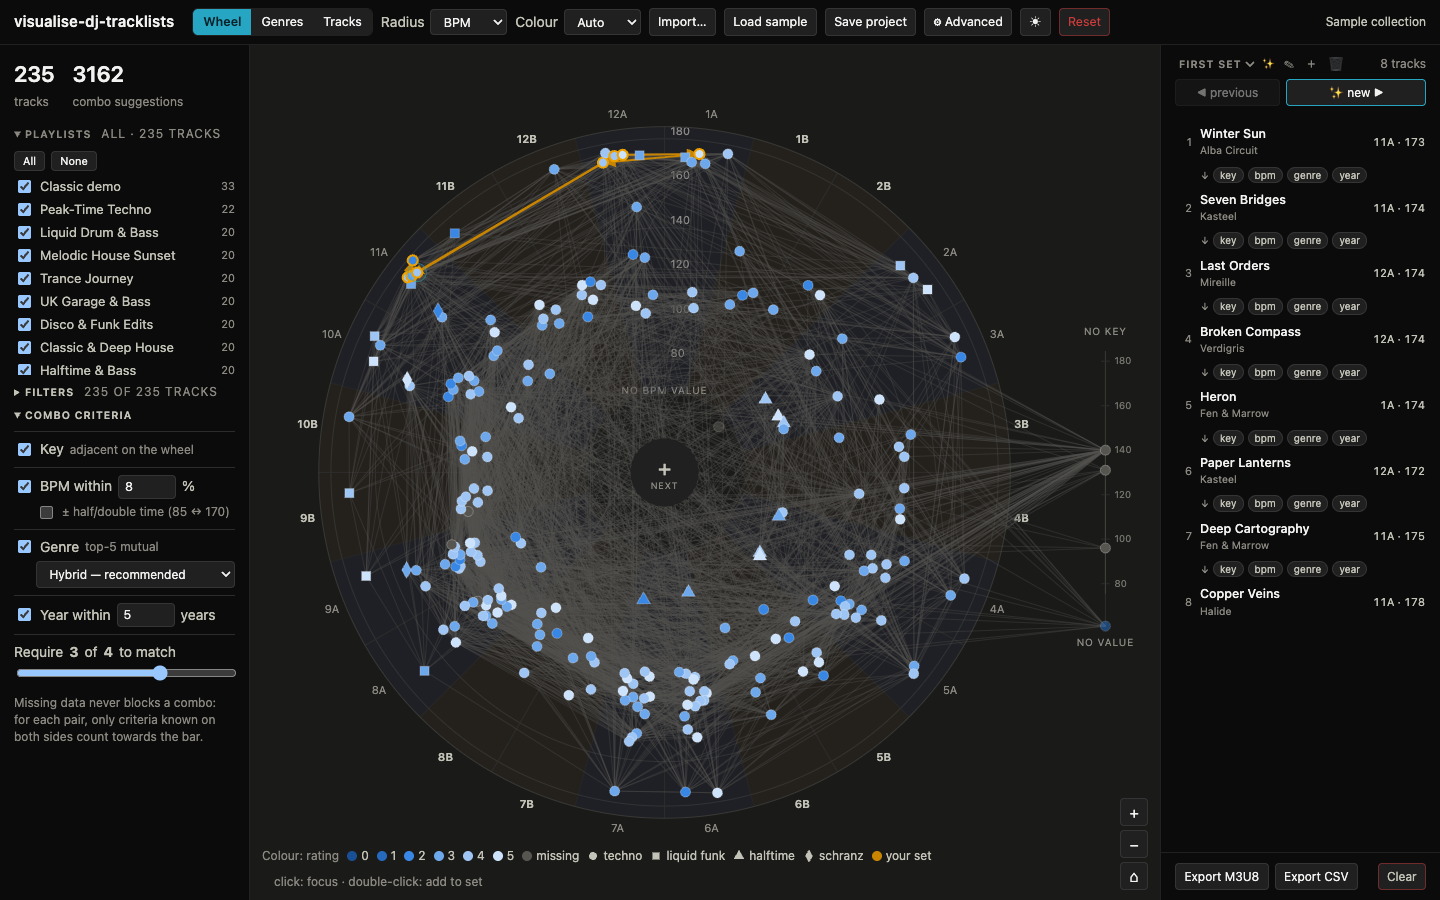
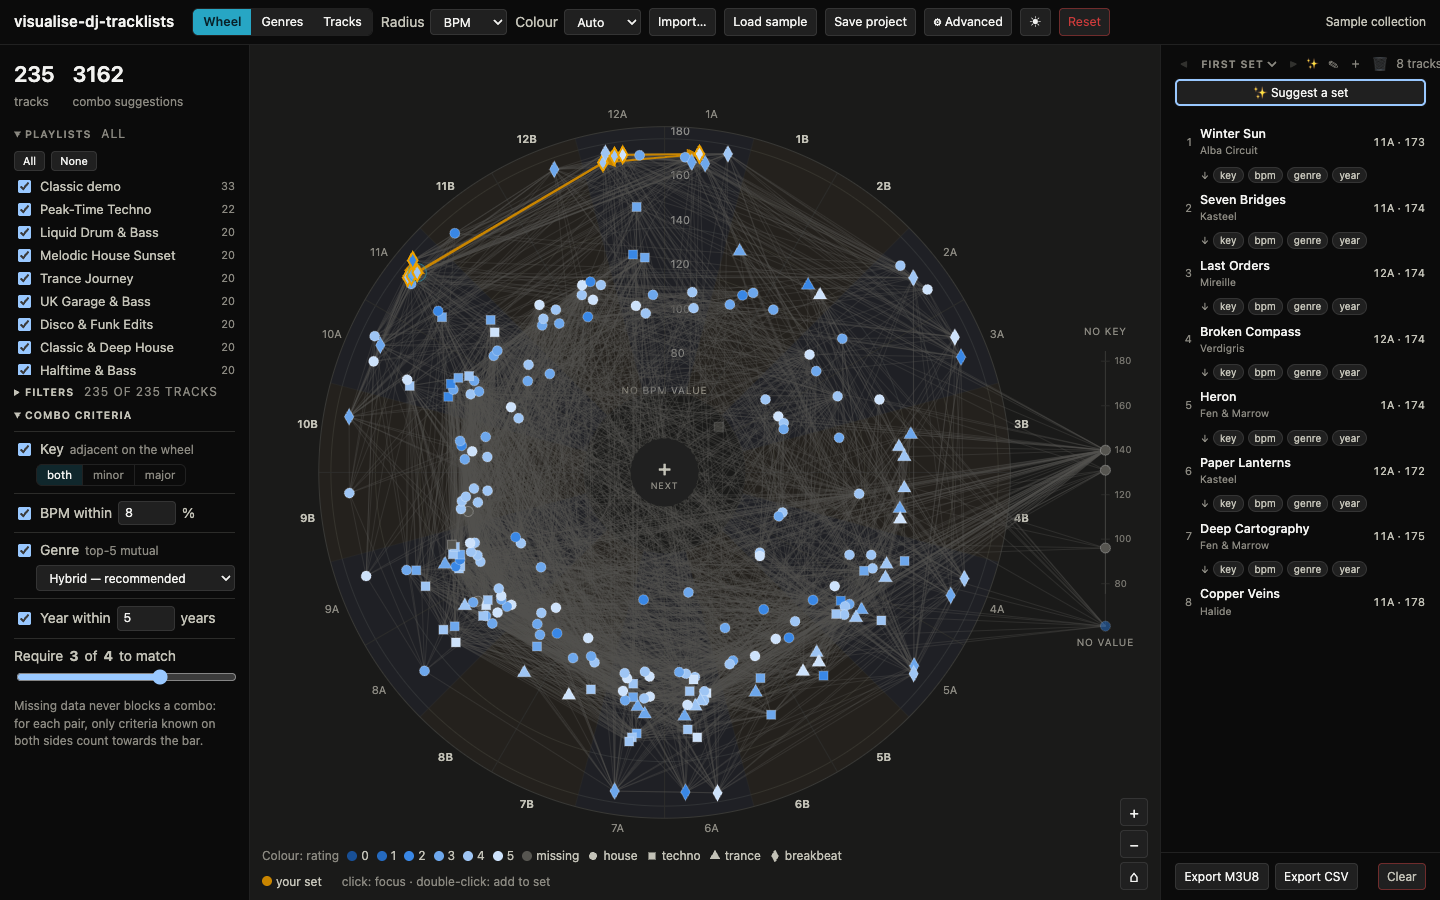
v8 WS13: design-v8.md, README for the v8 features, refreshed screenshots

diff --git a/docs/designs/design-v8.md b/docs/designs/design-v8.md
@@ -1,0 +1,175 @@
+# Design v8 — Eighteen issues after using v7
+
+Eighteen issues from real sessions with v7 (docs/ISSUES.md), headlined by a retry
+state machine on the hub, icon modes decoupled from the combo criterion, BPM
+matching at metric ratios, a seven-part Tracks-view upgrade, and the unification
+of named sets with the suggestion browser. This document records the design
+decided with Michiel before implementation (2026-07-16).
+
+## The issues and their resolutions
+
+| #   | Issue                                          | Resolution                                                                                                                                                          |
+| --- | ---------------------------------------------- | -------------------------------------------------------------------------------------------------------------------------------------------------------------------- |
+| 1   | Track count in the Playlists title superfluous | The Playlists summary reads just "2/9" again (reverting part of v7 issue 8); the Filters summary keeps the track totals                                                |
+| 2   | Retry hidden when Force appears                | The ring shows whenever the last hub pick can still be swapped — including in force state, where retrying the previous step matters most (§A)                          |
+| 3   | Retry should degrade, not disappear            | Retry → **force retry** (animated morph, + a ⟲ restore-original button) → **reset-only** when everything has been tried. NO auto-reset — the user decides (§A)         |
+| 4   | Criterion method reshuffles the icons          | Node shapes never follow the combo criterion any more: the clusters mode is pinned to the hybrid space, and the new default doesn't cluster at all (§B)                |
+| 5   | Playlist-based icons; study the clustering     | An `iconMode` setting: **genre families** (curated tree, the new default), **playlists** (first selected wins), **clusters** (hybrid-pinned legacy) (§B)                |
+| 6   | Half/double to advanced; 2/3 time; unit time   | Advanced → **Key & BPM** holds ± unit time (default ON), ± half/double, ± 2/3 time (3:2, triplet ↔ four-on-the-floor); the combo panel warns when unit time is off (§C) |
+| 7   | Hybrid should top the method list              | `METHOD_PICK_ORDER` (hybrid first) drives both method dropdowns; `GENRE_METHODS` keeps the simple→rich order for the map's chips and colours                            |
+| 8   | BPM tolerance down to 0%                       | The % input accepts 0 = exact-BPM match (the core already treated 0 correctly; a test pins it)                                                                          |
+| 9   | Focus card overlaps the legend                 | The selected-track card docks bottom-RIGHT (beside the zoom controls); while it shows, the legend's right bound retreats so the two can never collide                   |
+| 10  | Minor/major-only option                        | A both/minor/major segmented control in the key criterion block — semantically a FILTER (`filters.keyRing`); the excluded ring's sector tint fades out (§D)             |
+| 11  | Draggable genre nodes                          | Pointer-based dragging pins the node under the cursor and reheats the simulation; release lets it re-settle. Pure play, nothing persisted                              |
+| 12  | 'exact' does nothing on the genre map          | Correct, provably: one node per NORMALIZED label means identical labels are the same node. The chip is gone; criterion=exact shows a one-line note                      |
+| 13  | Method chips wrap to two lines                 | Five chips (after dropping 'exact') on one `nowrap` line — the old `max-width: 70%` + `flex-wrap: wrap` was the culprit                                                |
+| 14  | Edge tooltips unusable in dense maps           | The **pair inspector**: click genre A, click genre B → a docked card locks with every method's score and a ● for methods currently drawing the pair (§E)                |
+| 15  | Seven Tracks-view improvements                 | See §F — sort persistence, header-drag column order, optional Album/Date added/Length columns, star ratings, pin-lit ★, and the ＋→position cell                        |
+| 16  | Force should prefer ±2/±7 semitones            | Forced ranking adds `KEY_AFFINITY_BONUS` (0.3) when the keys match under relaxed +2/+7 opts (vinyl-aware) — below the 0.5 genre weight, so it re-ranks near-ties (§A)   |
+| 17  | Advanced menu: closed first, then remembered   | All sections fold on first open; `settings.advancedOpen` remembers what the user keeps open, across sessions (§G — with a Svelte 5 war story)                           |
+| 18  | Sets and the suggestion browser are one thing  | `suggestionHistory` is gone: ◀/▶ + the dropdown browse ≤ 8 named sets; ✨ regenerates an untouched set IN PLACE, else starts a new one (§H)                              |
+
+Decisions taken with the user: no auto-reset when the retry cycle exhausts
+(reset-only waits for ⟲); retry scope stays hub-placed picks; icon modes are all
+three (families default); playlist-icon conflicts resolve to the first selected
+playlist in panel order, size then panel order caps the symbol budget; ✨
+regenerates in place; append affordance in the Tracks view is the ＋ cell that
+becomes the position number (double-click removed there); Album + Date added are
+the new model fields; column reorder is header drag; the unit-time-off warning
+ships.
+
+## §A The retry state machine and the forced key preference
+
+`retryState(neighbours, tracklist, lastPick, triedIds, visibleIds)` in
+suggest.ts replaces `retryAlternativeExists` with four states:
+
+- **retry** — the anchor still has an unused, untried criteria-matching
+  neighbour (for the opener slot: any unused, untried visible track).
+- **force-retry** — matching options exhausted, but an untried visible track
+  remains: the ring adopts the force palette (animated dash morph) and grows a
+  ⟲ button that restores the slot's ORIGINAL pick and reopens the cycle.
+- **reset-only** — everything has been tried: the ring dims to a trace, only ⟲
+  acts, and nothing happens automatically.
+- **none** — no valid pick to swap, or a lone original with no alternatives.
+
+The view tracks `originalPickId` (set on each fresh hub pick, surviving
+retries, dying with the invalidation effect) and `triedIds` (the cycle's
+exclusions; ⟲ clears them). The ring is now visible in the hub's force state —
+issue 2's complaint — because the state machine looks at the LAST pick, not the
+next one.
+
+Forced picks (issue 16): the forced ranking adds 0.3 when
+`keysNearlyMatch(anchor, candidate)` — the key criterion evaluated with plusTwo
+and plusSeven forced on, vinyl mode still respected. Normal (edge-gated)
+ranking is unchanged, pinned by a test.
+
+## §B Icon modes (supersedes criterion-coupled clustering)
+
+`settings.iconMode`:
+
+- **families** (default): each primary genre maps to its family — the first
+  family-level node on its primary lineage in the curated genre tree, where
+  family level = the root's children with 'electronic' replaced by ITS children
+  (house, techno, trance, breakbeat, …). Deterministic, explainable, and never
+  reshuffles under criterion changes. Unknown labels stay circles.
+- **playlists**: a track's class is the FIRST selected playlist (panel order)
+  containing it; beyond the symbol budget the largest playlists keep a symbol
+  (ties: panel order). The genre map falls back to circles here — its nodes are
+  genres, which have no single playlist.
+- **clusters**: v7's average-linkage similarity clustering, now pinned to the
+  hybrid space — the combo criterion's method no longer moves icons (issue 4).
+
+All modes share `IconClassification` (`classOf` keyed by genre label or track
+id + `keyedBy`), resolved through `classIndexOfTrack` so the views don't care.
+`maxGenreClasses` caps the symbol classes in every mode; class 0 (largest)
+keeps the circle.
+
+## §C BPM at metric ratios
+
+`criteria.bpm` grows `unitTime` (default ON) and `twoThirds` alongside
+`halfDouble`; `bpmCompatibleRatio` tries every enabled ratio (1; 2 and ½;
+3∕2 and ⅔), each within the same % tolerance, unit first. 2/3 time links
+triplet and four-on-the-floor worlds (128 ↔ 192). Vinyl mode needs no special
+case: an exact 3:2 metric ratio leaves the platter speed unchanged, so the
+existing residual-semitone formula covers it (a test pins this). The combo
+panel shows the active ratio set and turns warning-coloured when unit time is
+off — that switch deliberately strips the ordinary matches, and with all three
+ratios off the BPM criterion is evaluable but never true (legal, loudly hinted,
+never silently re-enabled).
+
+## §D The minor/major filter
+
+`filters.keyRing: 'both' | 'minor' | 'major'` — a visibility filter living in
+`applyFilters` (keyless tracks always pass), CONTROLLED from the key criterion
+block because that is where Michiel reaches for it. The wheel answers the
+toggle beyond nodes vanishing: the excluded ring's twelve sector tints fade to
+15% with a CSS transition and their key labels mute. `playlistScopedLibrary`
+deliberately ignores it, like every non-playlist filter.
+
+## §E The genre-map pair inspector
+
+Click a node → highlight + "click a second genre to compare" hint card; click a
+second → a docked card (top-right, fixed position — not mouse-following) locks
+with the pair's score under every map method and a ● marking methods that
+currently draw the pair (the criterion method uses the criterion's REAL pair
+set, others the score floor). A third click starts a fresh selection;
+background click or ✕ clears; the locked pair's edges render heavier. Dragging
+(issue 11) never counts as a select-click — suppression works by time window,
+not a consumable flag, so a swallowed click can never leak onto the next one.
+
+## §F The Tracks view, part two
+
+- **Sort persistence**: the sort lives in a session store, surviving view
+  switches (not persisted — like `viewMode`).
+- **Columns**: `settings.trackColumns` is an ordered list = membership AND
+  position. The advanced menu's **Tracks table** section toggles membership
+  (all ten fields: the classic seven + Album, Date added, Length); dragging a
+  header reorders. Album and DateAdded are new Track model fields read from
+  the Rekordbox XML (DateAdded is when the file entered the library — the XML
+  carries no release date beyond Year); old saves parse them as null and gain
+  them on re-import.
+- **Stars**: ratings render as ★★★★☆ (numeric sort unchanged).
+- **Pin ⇒ ★**: a pinned opener/closer shows its ★ as on and disabled —
+  derived display ("included via pin"), the mustInclude store is untouched.
+- **The ＋/position cell**: a fixed first column; ＋ (hover-visible) appends,
+  and once the track is in the ACTIVE set the cell shows its 1-based position
+  number(s) — Michiel's seventh point folded into the sixth. Double-click
+  append is REMOVED in this view (it fought text selection), and rows are
+  `user-select: none`.
+
+## §G Advanced-menu section memory
+
+`settings.advancedOpen` (default `[]` — everything folds on first use)
+remembers the open sections across sessions. Svelte 5 lesson, recorded because
+it cost three attempts: `<details open={expr}>` is a CONTROLLED attribute —
+Svelte re-asserts the declared value after every user toggle, so both a
+reactive and a static one-way attribute permanently slam the sections shut.
+The working shape is `bind:open` (a local mirror initialised from settings)
+plus a **synchronous** `ontoggle` persister — a deferred `$effect` is discarded
+when the panel unmounts right after a toggle and silently forgets the change.
+
+## §H Sets are the suggestion browser
+
+`suggestionHistory`/`suggestionIndex` are deleted. The set panel's header now
+reads ◀ [dropdown] ▶ ✎ ＋ 🗑, navigating at most **8** sets (`MAX_SETS`;
+loading a save with more keeps the first eight). One **✨ Suggest** button:
+
+- Active set untouched generator output (✨ badge) or empty → regenerate **in
+  place**. Each regeneration is a single store write, so **Cmd+Z steps back
+  through successive suggestions** — the old ◀-history restored through the
+  undo stack, per set and better scoped.
+- Active set hand-edited → a NEW set is created and generated into (next
+  ordinal name); the edited set is never overwritten.
+- Cap reached and the active set hand-edited → ✨ disables with an explanatory
+  title; ＋ likewise disables at eight.
+
+Pins and must-include marks stay session-global and are NOT set edits — pinning
+a closer on a generated set keeps it regenerable in place.
+
+## Non-goals
+
+Auto-reset when the retry cycle exhausts (the ⟲ waits for the user); retrying
+non-hub tracks (generator/manual edits are covered by undo); per-set pins
+(unchanged from v6/v7); playlist icons on the genre map; persisting the Tracks
+sort or the view mode; a release-date field (the Rekordbox XML only carries
+Year and DateAdded).

diff --git a/README.md b/README.md
@@ -27,9 +27,11 @@ Your library never leaves your machine — there is no backend, no account, no u
   key angularly adjacent, minor/major sectors tinted), switchable radius (BPM / rating /
   year), node colour on its own axis. Tracks without a key sit in a labelled gutter at
   their true BPM. Zoom to resolve detail — node disks keep their size while the
-  structure magnifies. When your library spans **clearly different genre families**,
-  each family gets its own node shape (circle, square, triangle, …) — clustered in
-  whichever similarity space you selected, capped by a "max genre classes" setting.
+  structure magnifies. Node **shapes** (circle, square, triangle, …) carry a class of
+  your choosing: **genre families** from the curated genre tree (the default —
+  deterministic, and never reshuffled by criterion changes), your selected
+  **playlists** (first one wins), or similarity **clusters** in the hybrid space —
+  capped by a "max symbol classes" setting.
 - **Nodes that hold still**: every track's angle is a property of your _library_,
   not of the current filters — filtering and playlist toggling only make nodes
   appear or disappear, leaving gaps in the same-key fans, so nothing ever shuffles
@@ -42,32 +44,42 @@ Your library never leaves your machine — there is no backend, no account, no u
   make no distinction. Rating and year rings only sit on whole values.
 - **Map the genres**: a second central view (Wheel | Genres | Tracks switch) lays your
   library's genres out with a force simulation — screen distance approximates the
-  distance measure. Toggleable per-method edge overlays show where the six similarity
-  methods agree and disagree — the overlay for your **active criterion method draws
-  exactly the pairs the criterion links**, k/threshold included; hovering a link lists
-  every method's score for that pair, and a "show nearby genres" toggle ghosts in
-  related genres you don't own yet.
+  distance measure, and you can **drag the nodes around** to jiggle the clusters.
+  Toggleable per-method edge overlays show where the similarity methods agree and
+  disagree — the overlay for your **active criterion method draws exactly the pairs
+  the criterion links**, k/threshold included. **Click two genres to compare them**:
+  a docked card locks with every method's score for the pair (hovering a single edge
+  still works); a "show nearby genres" toggle ghosts in related genres you don't own
+  yet.
 - **Browse the tracks**: the third central view is a classic sortable table of the
   selected playlists — every column sortable (keys in Camelot order, missing values
-  last), clicking a row selects it everywhere and highlights its combo neighbours,
-  double-click appends it to the set. Per-row toggles mark a track **essential** (★)
-  or pin it as the **opener/closer** of generated sets; tagged tracks wear a subtle
-  ring on the wheel.
+  last, ratings as stars), and the sort survives view switches. Pick **which columns
+  show** (Album, Date added and Length join the classic seven) in the advanced menu
+  and **drag the headers** to reorder them. Clicking a row selects it everywhere and
+  highlights its combo neighbours; the leading **＋ cell appends to the set and turns
+  into the track's position number(s)** once it's in. Per-row toggles mark a track
+  **essential** (★) or pin it as the **opener/closer** of generated sets (a pinned
+  track's ★ lights up by itself — it's included by construction); tagged tracks wear
+  a subtle ring on the wheel.
 - **Filter**: BPM / year / rating ranges plus a genre checklist **scoped to the
-  selected playlists** decide what participates in the graph at all. Ranges pre-fill
-  with the whole numbers just outside the selected playlists' actual extremes, reset
-  to them with a ↺ per range (and whenever you toggle playlists), and a min can never
-  cross its max. The filter header counts visible tracks against the playlist
-  selection; the playlists header carries the selection's track total.
+  selected playlists** decide what participates in the graph at all, and a
+  **both/minor/major** switch beside the key criterion shows one Camelot ring only —
+  the excluded ring's sector tint fades out so the wheel visibly answers. Ranges
+  pre-fill with the whole numbers just outside the selected playlists' actual
+  extremes, reset to them with a ↺ per range (and whenever you toggle playlists), and
+  a min can never cross its max. The filter header counts visible tracks against the
+  playlist selection.
 - **Tune the criteria**: key / BPM / genre / year each toggleable and ranged; an edge
   appears when at least _N_ of the enabled criteria match. Missing metadata never blocks
   a combo. The BPM tolerance defaults to **±8%** — the pitch range of a classic
-  Technics fader. **Half/double-time** BPM matching links 85 ↔ 170 worlds; the **+2**
-  and **+7-semitone** key moves toggle independently; **vinyl mode** models the physics
-  of beatmatching on turntables — pitch shifts the key with the tempo, so keys are
-  always compared _after_ that shift: same-key tracks at different tempos detune apart,
-  and clean-semitone gaps transpose into new matches. Toggling it visibly rewires the
-  graph.
+  Technics fader — and goes down to **0% for exact matches**. BPM matches at every
+  enabled **metric ratio**: unit time (1:1, on by default — switch it off to isolate
+  the exotic combos), **half/double time** (85 ↔ 170), and **2/3 time** (128 ↔ 192,
+  triplet ↔ four-on-the-floor). The **+2** and **+7-semitone** key moves toggle
+  independently; **vinyl mode** models the physics of beatmatching on turntables —
+  pitch shifts the key with the tempo, so keys are always compared _after_ that shift:
+  same-key tracks at different tempos detune apart, and clean-semitone gaps transpose
+  into new matches. Toggling it visibly rewires the graph.
 - **Match genres that aren't spelled the same**: six selectable similarity methods
   (see below) — the dropdown sits right in the combo panel, sourced explainers and
   parameters in the advanced menu. The criterion defaults to the **hybrid** method
@@ -76,22 +88,26 @@ Your library never leaves your machine — there is no backend, no account, no u
   (electronic) and sparse genre regions; a classic score threshold remains available.
   Umbrella tags ("Electronic", "Dance") never drive a match, and multi-genre fields
   ("House / Techno") match through their best component.
-- **Weave a set**: click to focus (a card shows the selection's details), double-click
-  to append (the same track can appear twice — just not back-to-back), or press the
-  wheel's centre **＋ next** button to slot in the best next track (it inserts
-  _between_ tracks when your selection sits mid-set; the selection then follows the
-  pick, so pressing again continues from the head). A dashed **retry** ring appears
-  around the hub while an alternative exists — clicking it swaps the last pick for a
-  different one. When no track matches your criteria from there, the button pulses
-  into a warning-coloured **force** state — clicking it knowingly breaks the rules
-  with the closest non-matching pick — and it greys out once every visible track is
-  in the set. **Cmd+Z / Cmd+Shift+Z** undo and redo set edits and selection changes.
-  **Suggest a set** generates a full walk from a **random opener** each time; the
-  ◀ / ▶ arrows step back to earlier suggestions or generate fresh ones.
-- **Keep several sets**: the set panel's header is a switcher over **named sets** —
-  ＋ starts a "Second Set" (then Third, …), ✎ renames inline, and a subtle ✨ badge
-  marks a set that is untouched generator output (it disappears on the first manual
-  edit). All sets persist with the project.
+- **Weave a set**: click to focus (a card shows the selection's details, docked
+  bottom-right), double-click to append (the same track can appear twice — just not
+  back-to-back), or press the wheel's centre **＋ next** button to slot in the best
+  next track (it inserts _between_ tracks when your selection sits mid-set; the
+  selection then follows the pick, so pressing again continues from the head). A
+  dashed **retry** ring around the hub swaps the last pick for a different one — and
+  it never just vanishes: when the matching alternatives run out it morphs into a
+  warning-coloured **force retry** with a small **⟲** that restores the original
+  pick, and once everything has been tried only the ⟲ remains. When no track matches
+  your criteria from there, the hub itself pulses into a **force** state — a forced
+  pick gently prefers keys a **±2/±7-semitone move** away — and it greys out once
+  every visible track is in the set. **Cmd+Z / Cmd+Shift+Z** undo and redo set edits
+  and selection changes.
+- **Keep several sets — they ARE the suggestion browser**: the set panel's header
+  reads **◀ [set name] ▶** over up to **eight named sets** — ＋ starts a "Second Set"
+  (then Third, …), ✎ renames inline, and a subtle ✨ badge marks a set that is
+  untouched generator output. **✨ Suggest** regenerates such a set **in place**
+  (Cmd+Z steps back through the previous suggestions) and starts a **new set** when
+  the current one is hand-edited — your work is never overwritten. All sets persist
+  with the project.
 - **Shape the generated order**: pick the opening/closing track and the essential
   (must-include) tracks in the **Tracks view** — the same pins as 📌 on the set's
   first/last rows; with both ends set, the walk grows from both ends inward. The
@@ -100,12 +116,12 @@ Your library never leaves your machine — there is no backend, no account, no u
   that builds and drops in cycles — plus an **adventurousness** setting for how much
   dissonance the generator embraces.
 - **Make it yours**: the advanced settings live in the right panel (swapping with
-  the set) as collapsible sections, so the wheel reacts live while you tune
-  without a wall of controls. The **colour scheme** (blue / aqua / violet) tints the
-  whole app — accents, the set path, the genre map — not just the nodes; a ☀/☾
-  switch flips between the dark and light theme (fresh visitors follow the system
-  preference). The top bar stays lean: the imported collection's name plus an ⓘ
-  whose tooltip holds the import details.
+  the set) as collapsible sections that start folded and **remember what you keep
+  open**, so the wheel reacts live while you tune without a wall of controls. The
+  **colour scheme** (blue / aqua / violet) tints the whole app — accents, the set
+  path, the genre map — not just the nodes; a ☀/☾ switch flips between the dark and
+  light theme (fresh visitors follow the system preference). The top bar stays lean:
+  the imported collection's name plus an ⓘ whose tooltip holds the import details.
 - **Take it with you**: export the set as M3U8 (Rekordbox re-imports it) or CSV; save
   the whole project as JSON — every export asks for a filename first. Everything
   autosaves to the browser; a Reset button (with confirmation) wipes the slate.
@@ -186,9 +202,10 @@ over walks — is laid out in the concept paper at
 [docs/visualise-dj-tracklists.pdf](docs/visualise-dj-tracklists.pdf); the v1 design and
 decisions live in [docs/designs/](docs/designs/).
 
-Planned next (in rough order): force-layout "free" view for _tracks_ (the genre map
-already ships the d3-force groundwork), weighted edges with per-criterion weight
-sliders, walk-quality metrics (the first step toward DJ fingerprints),
-insert-between-via-edge-drag, Rekordbox-XML playlist export, a 3D "set journey"
-tunnel view, opt-in local audio analysis (Essentia.js), and fingerprint analytics over
-imported tracklists.
+Planned next (in rough order): walk-quality metrics (the first step toward DJ
+fingerprints), weighted edges with per-criterion weight sliders, force-layout "free"
+view for _tracks_ (the genre map already ships the d3-force groundwork),
+insert-between-via-edge-drag, keyboard navigation in the Tracks view (arrows +
+Enter now that the ＋ cell exists), Rekordbox-XML playlist export, a 3D "set
+journey" tunnel view, opt-in local audio analysis (Essentia.js), and fingerprint
+analytics over imported tracklists.
